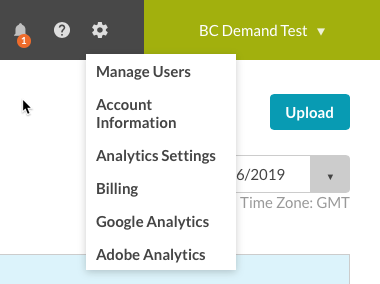
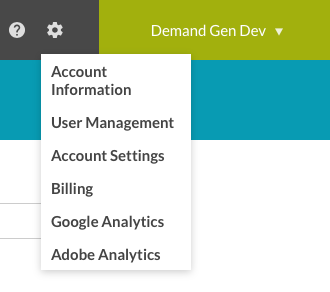
updated

diff --git a/admin/managing_account_settings.html b/admin/managing_account_settings.html
@@ -7,44 +7,46 @@
 <body>
 <article class="bcls-article">
   <h1>Managing Account Settings</h1>
+  <summary>In this topic you will learn how to manage account settings.</summary>
   <section class="bcls-section">
     <p>To access the Demand Gen account settings, click the gear icon (<img class="bcls-image--no-border" alt="" src="/demand-gen/images/admin/gear-icon.png" />) in the navigation header.</p>
-    <aside class="bcls-aside bcls-aside--information language-editable">Note: You must be an account administrator to access the ADMIN menu.</aside>
+    <aside class="bcls-aside bcls-aside--information language-editable">Note: You must be an account administrator to access the administration  menu.</aside>
     <figure class="bcls-figure"> <img class="bcls-image--no-border" alt="" src="/demand-gen/images/admin/admin-menu.png" /></figure>
     <p>The account settings menu provides the following options:</p>
     <ul>
-      <li><a href="#users">Manage Users</a></li>
-      <li><a href="#account">Account Information</a></li>
-      <li><a href="#analytics">Analytics Settings</a></li>
+      <li><a href="#account_info">Account Information</a></li>
+      <li><a href="#users">User Management</a></li>
+      <li><a href="#account_settings">Account Settings</a></li>
       <li><a href="#billing">Billing</a></li>
-      <li><a href="#ga">Google Analytics</a></li>
-      <li><a href="#aa">Adobe Analytics</a></li>
+      <li><a href="#google">Google Analytics</a></li>
+      <li><a href="#adobe">Adobe Analytics</a></li>
     </ul>
   </section>
   <section class="bcls-section">
-    <h2 id="users">Manage Users</h2>
-    <p>The Manage Users option allows you to manage the users who are authorized to use the Demand Gen account. For more information on managing users, see <a href="managing-users.html">Managing Users</a>.</p>
-  </section>
-  <section class="bcls-section">
-    <h2 id="account">Account Information</h2>
+    <h2 id="account_info">Account Information</h2>
     <p>The Account Information option allows you to edit the account name and mailing address. For more information, see <a href="managing_account_information.html">Managing Account Information</a>.</p>
   </section>
   <section class="bcls-section">
-    <h2 id="analytics">Analytics Settings</h2>
-    <p>The Analytics Settings allow you to set the default reporting time zone for the account. The reporting time zone is used to calculate day boundaries for reporting data. Changing the reporting time zone setting only affects data going forward, and changes are not applied retroactively. If you change this setting, you may see a flat spot or a spike in your analytics data when looking at day boundaries where the change was applied. Updates to this setting may not take effect immediately and analytics data may continue to refer to the old setting until the system processes the changes.</p>
-    <figure class="bcls-figure"><img class="bcls-image--no-border" alt="" src="/demand-gen/images/admin/analytics-settings.png" /></figure>
+    <h2 id="users">User Management</h2>
+    <p>The User Management option allows you to manage the users who are authorized to use the Demand Gen account. For more information on managing users, see <a href="managing-users.html">Managing Users</a>.</p>
+  </section>
+  <section class="bcls-section">
+    <h2 id="account_settings">Account Settings</h2>
+    <p>The Account Settings allow you to set the default reporting time zone for the account and to enable the Video Content Type field. The reporting time zone is used to calculate day boundaries for reporting data. Changing the reporting time zone setting only affects data going forward, and changes are not applied retroactively. If you change this setting, you may see a flat spot or a spike in your analytics data when looking at day boundaries where the change was applied. Updates to this setting may not take effect immediately and analytics data may continue to refer to the old setting until the system processes the changes.</p>
+    <p>By enabling Video Content Type field, Brightcove can compile your analytics with those of similar videos and provide more robust analytics  that includes Brightcove's Video Benchmark Score (VBS) and customized advice.</p>
+    <figure class="bcls-figure"><img class="bcls-image--no-border" alt="" src="/demand-gen/images/admin/account-settings.png" /></figure>
   </section>
   <section class="bcls-section">
     <h2 id="billing">Billing</h2>
     <p>The Billing option allows you to view billing information for the account. For more information on billing, see <a href="viewing-billing-information.html">Viewing Billing Information</a>.</p>
   </section>
   <section class="bcls-section">
-    <h2 id="ga">Google Analytics</h2>
-    <p>The Google Analytics option allows you to configure Google Analytics integration for the account. For more information, see <a href="configuring-google-analytics-event-tracking.html">Configuring Google Analytics Event Tracking</a>.</p>
+    <h2 id="google">Google Analytics</h2>
+    <p>The Google Analytics option allows player events and custom dimension data to be sent to a Google Analytics account for reporting purposes. For more information, see <a href="configuring-google-analytics-event-tracking.html">Configuring Google Analytics Event Tracking</a>.</p>
   </section>
   <section class="bcls-section">
-    <h2 id="aa">Adobe Analytics</h2>
-    <p>The Adobe Analytics option allows you to configure Adobe Analytics integration for the account. For more information, see <a href="configuring-adobe-analytics-event-tracking.html">Configuring Adobe Analytics Event Tracking</a>.</p>
+    <h2 id="adobe">Adobe Analytics</h2>
+    <p>The Adobe Analytics option allows event tracking data to be sent to an Adobe Analytics account for reporting purposes. For more information on managing users, see <a href="configuring-adobe-analytics-event-tracking.html">Configuring Adobe Analytics Event Tracking</a>.</p>
   </section>
 </article>
 </body>
